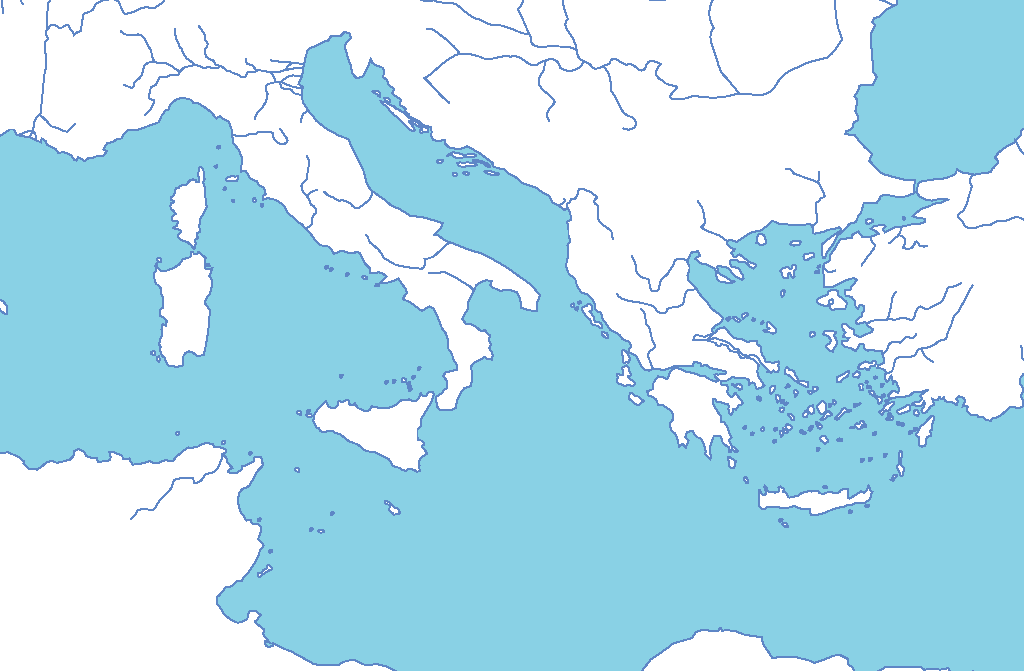
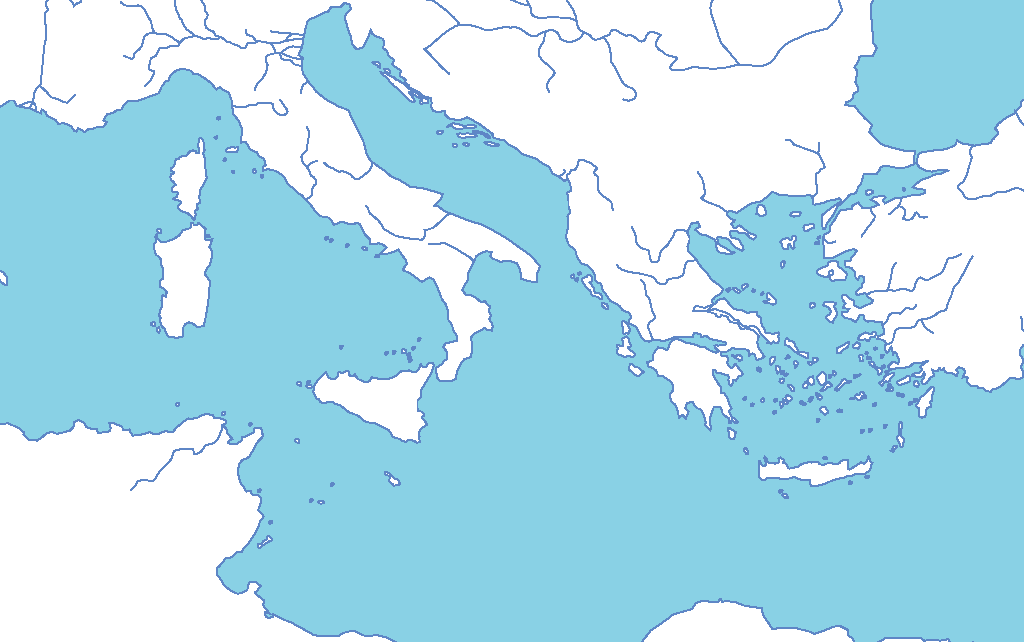
Added image pan/zoom, messed w/ some styling, added some more events

diff --git a/aeneid-retold/src/App.css b/aeneid-retold/src/App.css
@@ -1,19 +1,41 @@
+body {
+    pointer-events: none;
+}
+
+#root {
+    width: 55%;
+    margin: 0 auto;
+}
+
 .gameHeader {
     padding-bottom: 10px;
 }
 
-.background img{
+.background {
+    pointer-events: all;
+}
+
+.background div {
     display: block;
     z-index: -1;
     position: fixed;
     left: 0;
     right: 0;
-    width: 100vw;
-    margin: 0 auto;
+
+    width: 100%;
+    height: 100%;
+}
+
+.background img {
+    width: 100%;
+    height: auto;
+
+    max-height: 140%;
 }
 
 .beginScreen {
     text-align: center;
+    pointer-events: all;
 }
 
 .game {
@@ -24,7 +46,7 @@
 
 .history-container {
     display: flex;
-    width: 70vw;
+    width: 100%;
     max-height: 50vh;
     flex-direction: column;
     align-items: center;
@@ -37,6 +59,9 @@
     text-align: center;
     background-color: rgba(248, 214, 214, 0.9);
     padding: 20px 0;
+    width: 100px;
+
+    pointer-events: all;
 }
 
 .story-node {
@@ -59,7 +84,6 @@
     display: flex;
     flex-direction: row;
     align-items: stretch;
-
     margin-top: 20px;
 }
 
@@ -73,10 +97,11 @@
     transition: opacity 1s;
 }
 
-.choices div {
+.choice-item {
     display: flex;
     margin: 3px;
     flex: 1;
+    justify-content: center;
 }
 
 .storyChoice p {

diff --git a/aeneid-retold/src/App.js b/aeneid-retold/src/App.js
@@ -3,6 +3,7 @@ import React, { useState } from 'react';
 import Game from './components/Game';
 import 'bootstrap/dist/css/bootstrap.min.css';
 import Button from 'react-bootstrap/Button';
+import { TransformWrapper, TransformComponent } from "react-zoom-pan-pinch";
 
 import map from "./img/blank_map.png";
 
@@ -24,8 +25,13 @@ function App() {
     {startGame ? (
       <>
       <div className='background'>
-        <img src={map} alt="map"></img>
+        <TransformWrapper limitToBounds={true} disablePadding={true}>
+          <TransformComponent>
+            <img src={map} alt="map"></img>
+          </TransformComponent>
+        </TransformWrapper>
       </div>
+
       <div className="container">
         <div className="gameHeader">
           <h2>The Aeneid: Retold</h2>
